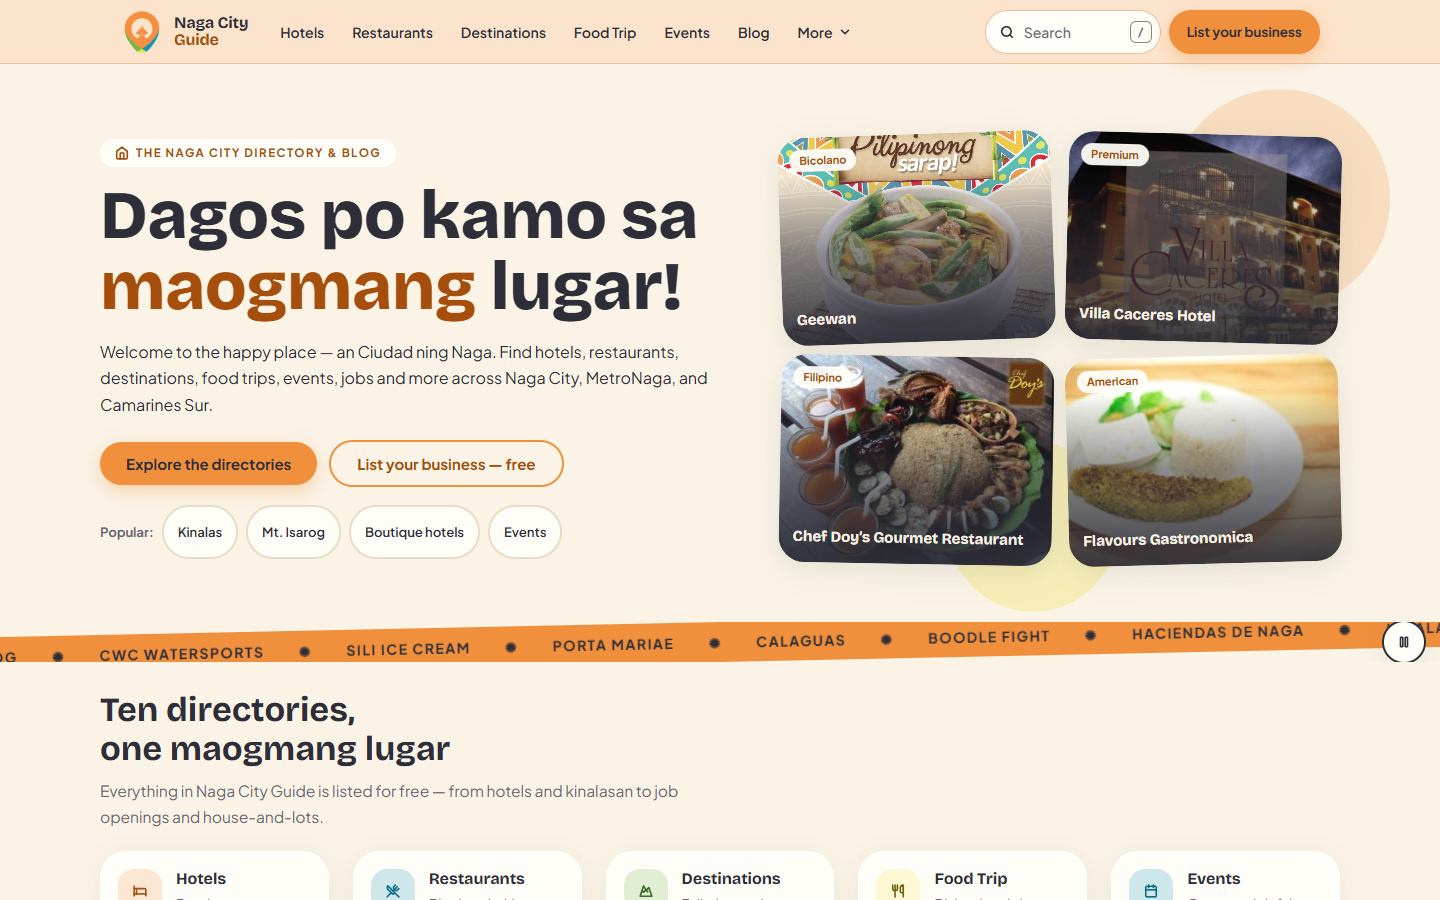
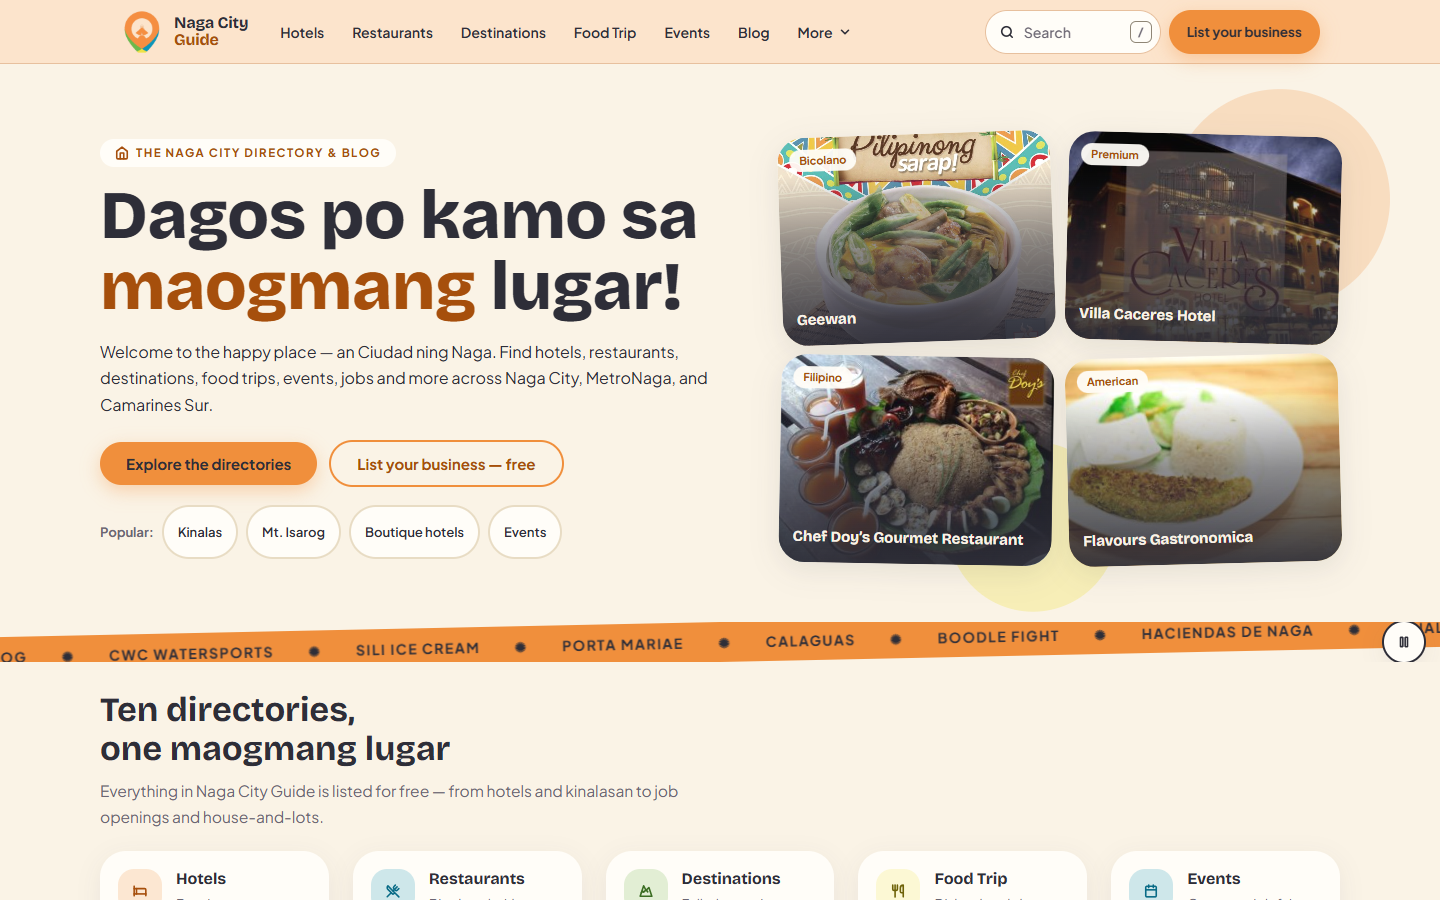
feat(projects): add Connecta PH, Naga City Guide and Eastwind, with a staging status

Changed region(s): [[0.0, 0.6844, 0.4688, 0.7467], [0.5312, 0.6844, 0.9375, 0.7156], [0.9688, 0.6844, 1.0, 0.7156]]

diff --git a/lib/data.ts b/lib/data.ts
@@ -20,6 +20,7 @@ const sectorLabels: Record<ProjectSector, string> = {
   'real-estate': 'real estate',
   product: 'products',
   'internal-tool': 'internal tools',
+  directory: 'directories',
 }
 
 // The first viewport names the verticals a hospitality owner is looking for.
@@ -37,7 +38,7 @@ export const heroContent = {
   // The count is the Sites band; the list is its distinct sectors in
   // hospitality-first order, capped at four so the line stays one line.
   get specialism(): string {
-    const sites = projects.filter((p) => p.band === 'Sites')
+    const sites = projects.filter((p) => p.band === 'Sites' && p.status !== 'staging')
     const sectors = SECTOR_ORDER.filter((sector) => sites.some((p) => p.sector === sector))
       .slice(0, 4)
       .map((sector) => sectorLabels[sector])
@@ -107,6 +108,8 @@ export const projects: Project[] = [
     slug: 'connecta-ph',
     title: 'Connecta PH',
     description: 'NFC and QR business cards that open a professional profile on any phone with no app to install, and send every visitor enquiry back to the card owner. Built for Naga first.',
+    summary: 'Naga professionals · NFC cards, no app needed',
+    sector: 'product',
     band: 'Products',
     image: '/assets/images/projects/connecta-ph.png',
     technologies: ['Next.js', 'TypeScript', 'Tailwind CSS', 'Supabase', 'Resend', 'Vercel', 'NFC'],
@@ -298,11 +301,27 @@ export const projects: Project[] = [
     slug: 'naga-city-guide',
     title: 'Naga City Guide',
     description: 'A WordPress directory and blog for Naga City and Camarines Sur, with ten listing categories including hotels, restaurants, events and jobs, built on a custom theme and plug-in. Businesses can submit listings for free.',
+    summary: 'Naga visitors and locals · city directory and blog',
+    sector: 'directory',
     band: 'Sites',
     image: '/assets/images/projects/naga-city-guide.png',
     technologies: ['WordPress', 'Custom theme', 'Custom plug-in', 'CMB2', 'Google Maps', 'Yoast SEO'],
     links: { live: 'https://nagacityguide.com' },
     status: 'live',
+    featured: false,
+  },
+  {
+    id: 'eastwind-beach-villas',
+    slug: 'eastwind-beach-villas',
+    title: 'Eastwind Beach Villas',
+    description: 'A WordPress site for eight beachfront villas on an east-facing cove in San Fernando, El Nido, Palawan, with direct booking through Cloudbeds.',
+    summary: 'Villa guests · direct booking via Cloudbeds',
+    band: 'Sites',
+    sector: 'hotel',
+    image: '/assets/images/projects/eastwind-beach-villas.png',
+    technologies: ['WordPress', 'GeneratePress', 'GenerateBlocks', 'Fluent Forms', 'Rank Math', 'Cloudbeds'],
+    links: { live: 'https://onlinecreativesolutions.com/eastwind/' },
+    status: 'staging',
     featured: false,
   },
 ]
@@ -490,6 +509,7 @@ export const sectorNames: Record<ProjectSector, string> = {
   'real-estate': 'real estate',
   product: 'product',
   'internal-tool': 'internal tool',
+  directory: 'directory',
 }
 
 // Copy for /projects/[slug]. Flagships read as case studies; every other

diff --git a/tests/content/positioning.test.ts b/tests/content/positioning.test.ts
@@ -14,6 +14,7 @@ import { buildSiteMetadata } from '@/lib/site-metadata'
 import { existsSync } from 'node:fs'
 
 const sites = projects.filter((p) => p.band === 'Sites')
+const liveSites = sites.filter((p) => p.status !== 'staging')
 
 describe('positioning', () => {
   it('leads with the full-stack title', () => {
@@ -28,13 +29,13 @@ describe('positioning', () => {
     expect(heroContent.specialism).not.toContain('—')
   })
 
-  it('states the same number of live sites as the Sites band holds', () => {
+  it('states the same number of live sites as the Sites band holds that are not staging', () => {
     const claimed = Number(heroContent.specialism.match(/^(\d+) live sites · /)?.[1])
-    expect(claimed).toBe(sites.length)
+    expect(claimed).toBe(liveSites.length)
   })
 
-  it('calls the sites live only because every one of them displays as live', () => {
-    for (const site of sites) expect(displayStatus(site.status), site.slug).toBe('live')
+  it('calls the sites live only because every non-staging one displays as live', () => {
+    for (const site of liveSites) expect(displayStatus(site.status), site.slug).toBe('live')
   })
 
   // Pinned, so the line cannot drift silently: re-sectoring any site fails
@@ -50,9 +51,11 @@ describe('positioning', () => {
       'azalea-baguio: hotel',
       'azalea-boracay: hotel',
       'aralabroad: education',
+      'naga-city-guide: directory',
+      'eastwind-beach-villas: hotel',
     ])
-    expect(heroContent.specialism).toBe(`${sites.length} live sites · hotels, tours, restaurants, review centres`)
-    expect(heroContent.specialism).toBe('9 live sites · hotels, tours, restaurants, review centres')
+    expect(heroContent.specialism).toBe(`${liveSites.length} live sites · hotels, tours, restaurants, review centres`)
+    expect(heroContent.specialism).toBe('10 live sites · hotels, tours, restaurants, review centres')
   })
 
   it('only names stack chips that exist in the skills list', () => {

diff --git a/tests/content/project-page.test.ts b/tests/content/project-page.test.ts
@@ -2,7 +2,7 @@ import { existsSync } from 'node:fs'
 import { join } from 'node:path'
 import { describe, expect, it } from 'vitest'
 import { caseStudyContent, projects, sectorNames } from '@/lib/data'
-import { canLinkLive, nextInOrder, projectHref, recommendationFor, screenshotsFor } from '@/lib/project-page'
+import { canLinkLive, liveLinkLabel, nextInOrder, projectHref, recommendationFor, screenshotsFor } from '@/lib/project-page'
 import { buildProjectPageTitle } from '@/lib/site-metadata'
 import type { Project, ProjectStatus } from '@/types'
 
@@ -23,9 +23,15 @@ describe('project page helpers', () => {
     expect(canLinkLive(withStatus('live', 'https://x.test'))).toBe(true)
     expect(canLinkLive(withStatus('early-access', 'https://x.test'))).toBe(true)
     expect(canLinkLive(withStatus('ua-gated', 'https://x.test'))).toBe(true)
+    expect(canLinkLive(withStatus('staging', 'https://x.test'))).toBe(true)
     expect(canLinkLive(withStatus('auth-gated', 'https://x.test'))).toBe(false)
     expect(canLinkLive(withStatus('internal', 'https://x.test'))).toBe(false)
     expect(canLinkLive(withStatus('live'))).toBe(false)
+  })
+
+  it('labels the outbound link for staging or live', () => {
+    expect(liveLinkLabel(withStatus('staging', 'https://x.test'))).toBe('Open staging site')
+    expect(liveLinkLabel(withStatus('live', 'https://x.test'))).toBe('Open live site')
   })
 
   it('finds the desktop shot, and a mobile shot only where the file exists', () => {

diff --git a/tests/components/status-badge.test.tsx b/tests/components/status-badge.test.tsx
@@ -9,6 +9,7 @@ const CASES: [ProjectStatus, string][] = [
   ['early-access', 'Early access'],
   ['auth-gated', 'Private'],
   ['internal', 'Internal'],
+  ['staging', 'Staging'],
 ]
 
 describe('StatusBadge', () => {
@@ -26,6 +27,17 @@ describe('StatusBadge', () => {
   it('hides the glyph from assistive technology', () => {
     const html = renderToStaticMarkup(<StatusBadge status="auth-gated" />)
     expect(html).toContain('aria-hidden="true"')
+  })
+
+  it('draws staging as its own shape, never the live glyph', () => {
+    const staging = renderToStaticMarkup(<StatusBadge status="staging" />)
+    const internal = renderToStaticMarkup(<StatusBadge status="internal" />)
+    expect(staging).toContain('data-status="staging"')
+    expect(staging).not.toContain('live-pulse')
+    expect(staging).not.toContain('bg-live')
+    const glyph = (html: string) => html.match(/<span aria-hidden="true" class="([^"]*)"/)?.[1]
+    expect(glyph(staging)).toBeTruthy()
+    expect(glyph(staging)).not.toBe(glyph(internal))
   })
 
   it('pulses only the live glyph', () => {

diff --git a/tests/components/project-page.test.tsx b/tests/components/project-page.test.tsx
@@ -38,7 +38,7 @@ describe('/projects/[slug]', () => {
   it('states status in words and links back to all projects', () => {
     for (const p of projects) {
       const html = render(p.slug)
-      expect(html).toMatch(/>(Live|Early access|Private|Internal)</)
+      expect(html).toMatch(/>(Live|Early access|Private|Internal|Staging)</)
       expect(html).toContain('href="/projects"')
     }
   })
@@ -48,6 +48,13 @@ describe('/projects/[slug]', () => {
     expect(render('downtown-district-hotel')).toContain('Open live site')
     expect(render('ocs-wp-control-panel')).not.toContain('Open live site')
     expect(render('beachbus-nfc-card-system')).not.toContain('Open live site')
+  })
+
+  it('calls Eastwind a staging site, in words, and labels its link that way', () => {
+    const html = render('eastwind-beach-villas')
+    expect(html).toContain('Open staging site')
+    expect(html).toContain('>Staging<')
+    expect(html).not.toContain('Open live site')
   })
 
   it('explains a missing preview instead of showing an empty frame', () => {

diff --git a/components/case-study/project-header.tsx b/components/case-study/project-header.tsx
@@ -2,7 +2,7 @@ import Link from 'next/link'
 import { ArrowLeft, ArrowUpRight } from 'lucide-react'
 import { StatusBadge } from '@/components/ui/status-badge'
 import { caseStudyContent, paymentGateways, sectorNames } from '@/lib/data'
-import { canLinkLive } from '@/lib/project-page'
+import { canLinkLive, liveLinkLabel } from '@/lib/project-page'
 import type { Project } from '@/types'
 
 interface ProjectHeaderProps {
@@ -57,7 +57,7 @@ export function ProjectHeader({ project, role, isCaseStudy = false }: ProjectHea
           // Secondary: it leaves the site. "Start a project" keeps the amber fill.
           className="mt-6 inline-flex min-h-[44px] items-center gap-2 rounded border border-line-strong px-5 py-2.5 font-medium text-ink transition-colors hover:border-accent hover:text-accent"
         >
-          Open live site
+          {liveLinkLabel(project)}
           <ArrowUpRight aria-hidden="true" className="h-4 w-4" />
           <span className="sr-only">(opens in a new tab)</span>
         </a>

diff --git a/types/index.ts b/types/index.ts
@@ -21,6 +21,7 @@ export type ProjectSector =
   | 'real-estate'
   | 'product'
   | 'internal-tool'
+  | 'directory'
 
 // Hospitality first: the primary buyer is a Philippine tourism or hospitality
 // owner. The last two never occur among client work.
@@ -29,6 +30,7 @@ export const SECTOR_ORDER: readonly ProjectSector[] = [
   'tours',
   'restaurant',
   'review-centre',
+  'directory',
   'education',
   'real-estate',
   'product',
@@ -43,10 +45,11 @@ export type ProjectStatus =
   | 'auth-gated'
   | 'ua-gated'
   | 'internal'
+  | 'staging'
 
 // What a visitor sees. Five data statuses collapse to four: `ua-gated` sites are
 // live in any browser, and only the preview mechanism needs the distinction.
-export type DisplayStatus = 'live' | 'early-access' | 'private' | 'internal'
+export type DisplayStatus = 'live' | 'early-access' | 'private' | 'internal' | 'staging'
 
 export interface Project {
   id: string;

diff --git a/tests/content/projects.test.ts b/tests/content/projects.test.ts
@@ -95,8 +95,8 @@ describe('project summaries', () => {
 })
 
 describe('project inventory', () => {
-  it('holds exactly seventeen projects', () => {
-    expect(projects).toHaveLength(17)
+  it('holds exactly eighteen projects', () => {
+    expect(projects).toHaveLength(18)
   })
 
   it('distributes them across the four bands as designed', () => {
@@ -104,7 +104,7 @@ describe('project inventory', () => {
     expect(count('Products')).toBe(4)
     expect(count('Custom systems')).toBe(2)
     expect(count('Applications')).toBe(1)
-    expect(count('Sites')).toBe(10)
+    expect(count('Sites')).toBe(11)
   })
 
   it('carries the full inventory by slug', () => {
@@ -126,6 +126,7 @@ describe('project inventory', () => {
       'azalea-boracay',
       'aralabroad',
       'naga-city-guide',
+      'eastwind-beach-villas',
     ])
   })
 

diff --git a/tests/content/display-status.test.ts b/tests/content/display-status.test.ts
@@ -3,7 +3,7 @@ import { DISPLAY_STATUS_LABEL, displayStatus } from '@/lib/display-status'
 import { projects } from '@/lib/data'
 import type { ProjectStatus } from '@/types'
 
-const ALL: ProjectStatus[] = ['live', 'early-access', 'auth-gated', 'ua-gated', 'internal']
+const ALL: ProjectStatus[] = ['live', 'early-access', 'auth-gated', 'ua-gated', 'internal', 'staging']
 
 describe('displayStatus', () => {
   it('maps every data status to a labelled display status', () => {
@@ -15,6 +15,10 @@ describe('displayStatus', () => {
 
   it('shows UA-gated sites as live, because to a visitor they are', () => {
     expect(displayStatus('ua-gated')).toBe('live')
+  })
+
+  it('shows a staging site as staging, not live', () => {
+    expect(displayStatus('staging')).toBe('staging')
   })
 
   it('calls the auth-gated panel private', () => {

diff --git a/lib/project-page.ts b/lib/project-page.ts
@@ -12,10 +12,14 @@ export function projectHref(project: Project): string {
 
 // ua-gated sites refuse automated clients but open in any browser, so a
 // visitor can follow the link. Login-walled and internal systems cannot.
-const LINKABLE: readonly ProjectStatus[] = ['live', 'early-access', 'ua-gated']
+const LINKABLE: readonly ProjectStatus[] = ['live', 'early-access', 'ua-gated', 'staging']
 
 export function canLinkLive(project: Project): boolean {
   return Boolean(project.links.live) && LINKABLE.indexOf(project.status) !== -1
+}
+
+export function liveLinkLabel(project: Project): string {
+  return project.status === 'staging' ? 'Open staging site' : 'Open live site'
 }
 
 // scripts/capture-screenshots.mjs writes <id>.png and <id>-mobile.png side by

diff --git a/tests/content/board.test.ts b/tests/content/board.test.ts
@@ -27,11 +27,13 @@ describe('groupByBand', () => {
       'downtown-district-hotel',
       'azalea-baguio',
       'azalea-boracay',
+      'eastwind-beach-villas',
       'elnido',
       'beachbus',
       'graceland',
       'upcat-review-plus',
       'acad1',
+      'naga-city-guide',
       'aralabroad',
     ])
   })
@@ -58,11 +60,13 @@ describe('groupForHomepage', () => {
       'downtown-district-hotel',
       'azalea-baguio',
       'azalea-boracay',
+      'eastwind-beach-villas',
       'elnido',
       'beachbus',
       'graceland',
       'upcat-review-plus',
       'acad1',
+      'naga-city-guide',
       'aralabroad',
       'aman-webapp',
     ])

diff --git a/lib/display-status.ts b/lib/display-status.ts
@@ -7,6 +7,7 @@ const MAP: Record<ProjectStatus, DisplayStatus> = {
   'early-access': 'early-access',
   'auth-gated': 'private',
   internal: 'internal',
+  staging: 'staging',
 }
 
 export const DISPLAY_STATUS_LABEL: Record<DisplayStatus, string> = {
@@ -14,6 +15,7 @@ export const DISPLAY_STATUS_LABEL: Record<DisplayStatus, string> = {
   'early-access': 'Early access',
   private: 'Private',
   internal: 'Internal',
+  staging: 'Staging',
 }
 
 export function displayStatus(status: ProjectStatus): DisplayStatus {
